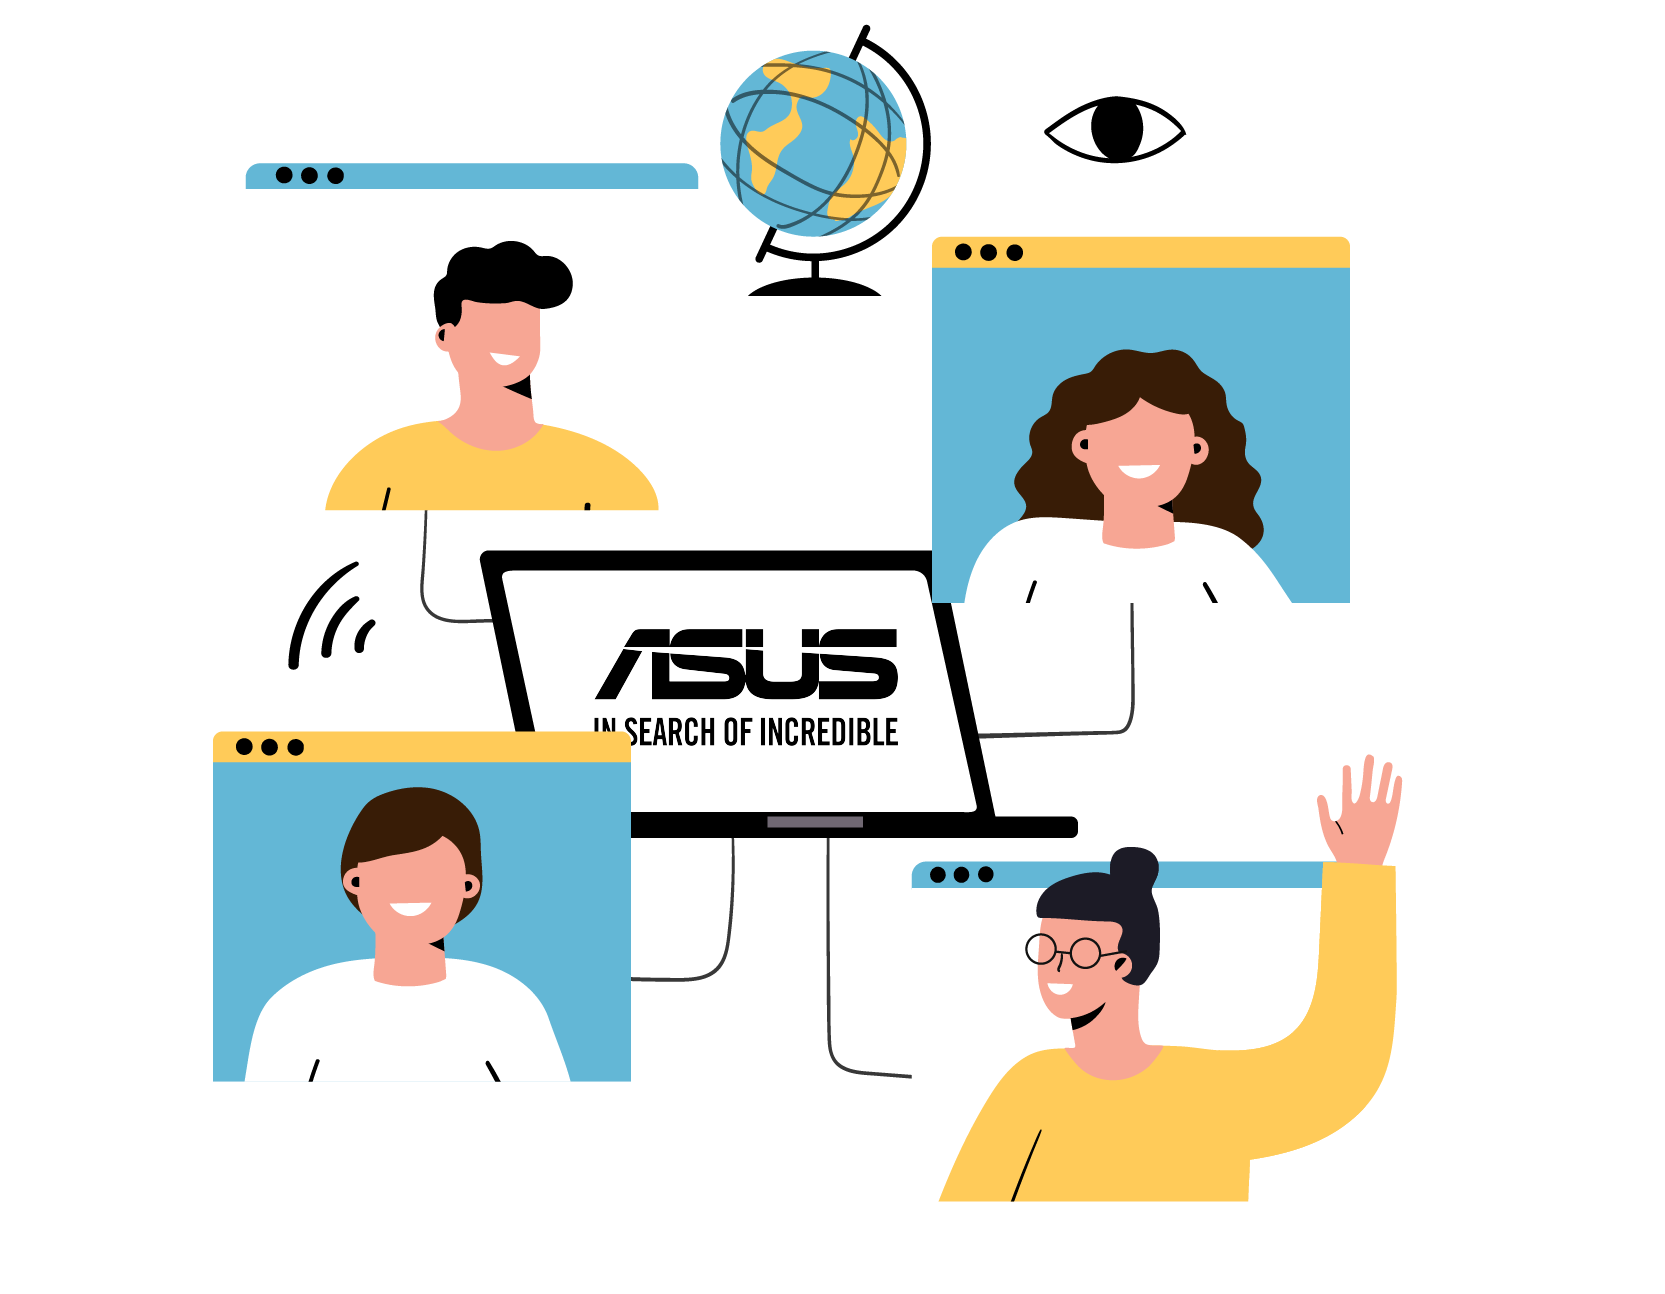
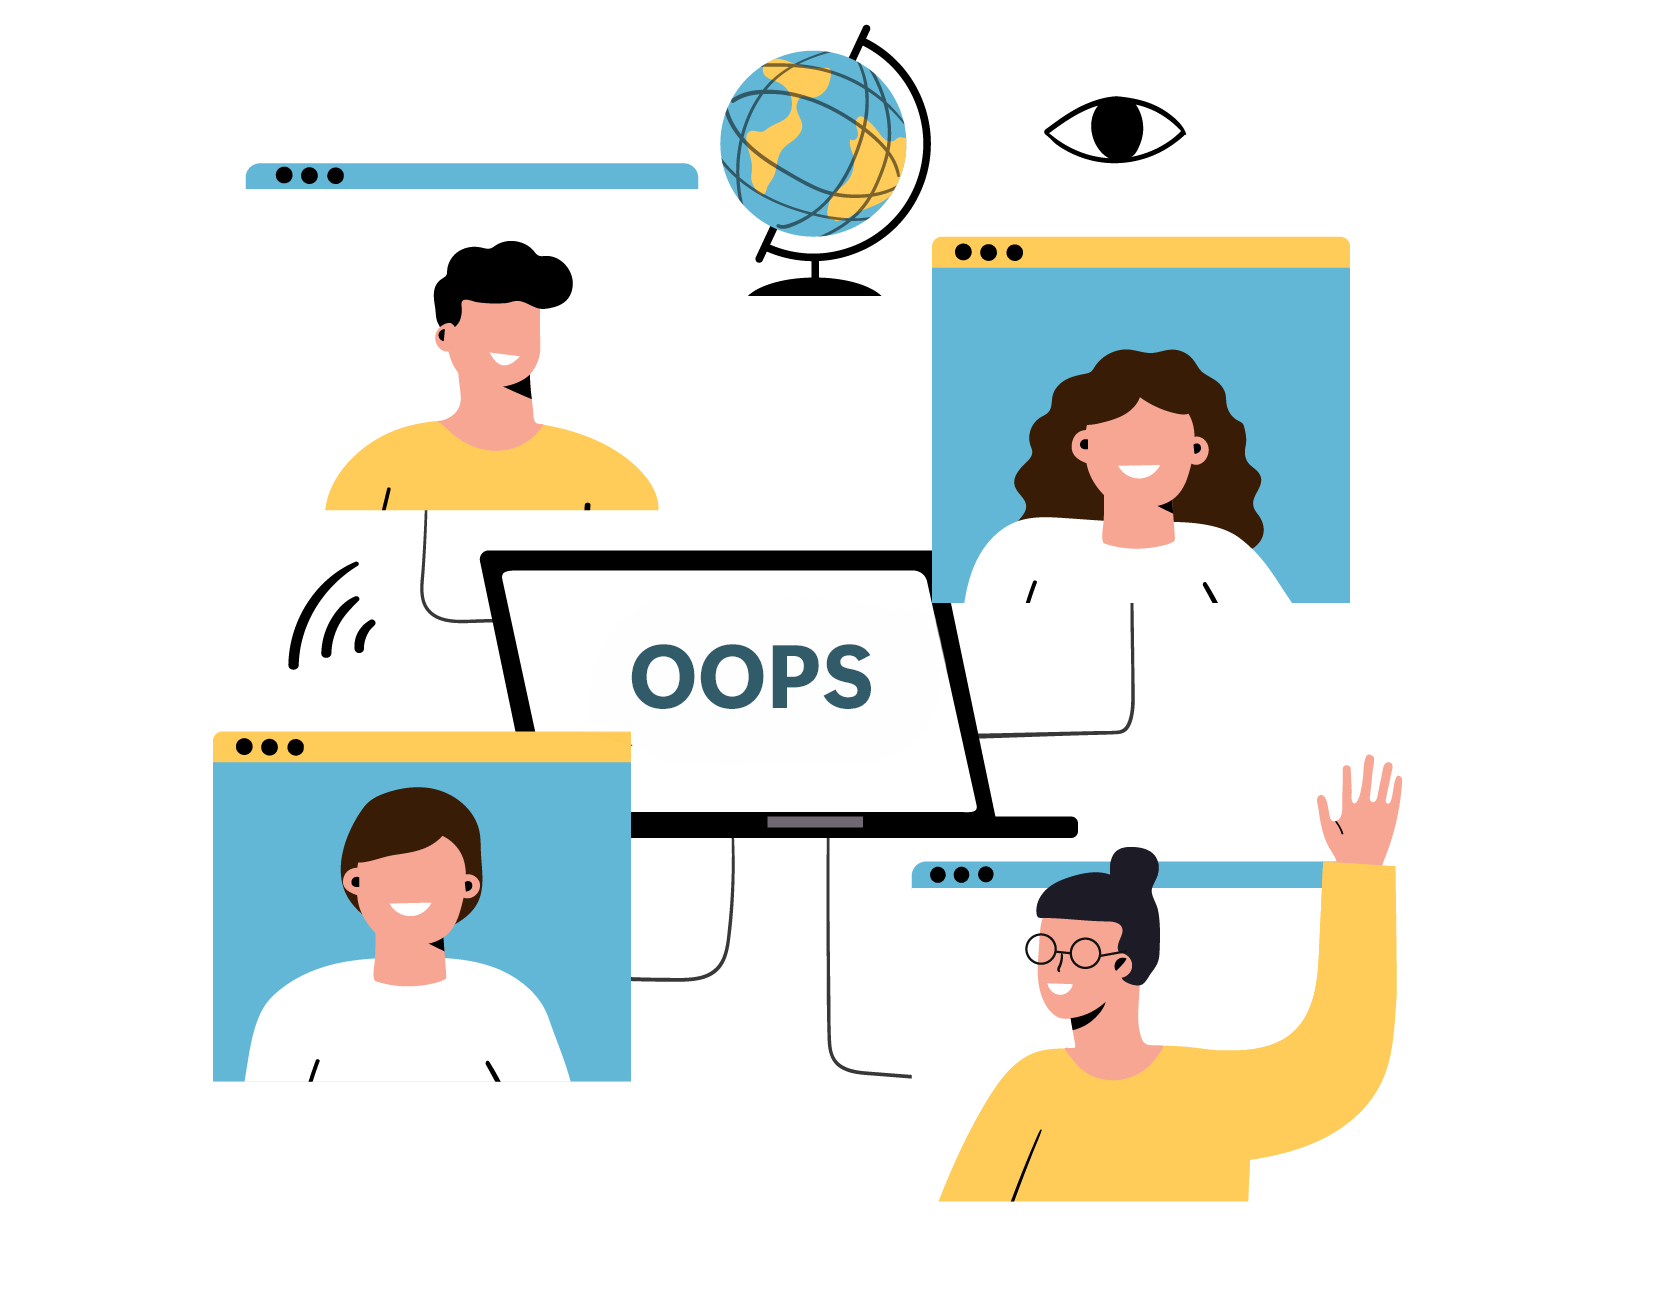
Add files via upload

Changed region(s): [[0.3435, 0.4637, 0.5622, 0.5873]]

diff --git a/Global RT Training page/Global RT Training page/Global RT Training page/404.html b/Global RT Training page/Global RT Training page/Global RT Training page/404.html
@@ -1,0 +1,73 @@
+<!DOCTYPE html>
+<html lang="en">
+<head>
+    <head>
+        <!-- 
+          Gloss Template
+          http://www.templatemo.com/preview/templatemo_433_gloss
+      -->
+      <title>404 Erro Page </title>
+      <meta name="keywords" content="" />
+      <meta name="description" content="" />
+      <meta charset="utf-8">
+      <meta name="viewport" content="initial-scale=1">
+       <link href='http://fonts.googleapis.com/css?family=Open+Sans:400italic,600italic,700italic,400,600,700,800' rel='stylesheet' type='text/css'> 
+  
+         <link rel="stylesheet" href="css/font-awesome.min.css">
+      <link rel="stylesheet" href="css/bootstrap.min.css"> 
+      
+         <!-- JavaScripts -->   
+      <script src="js/jquery-1.11.1.min.js"></script>  <!-- lightbox -->
+      <script src="js/templatemo_custom.js"></script> <!-- lightbox -->
+      <script src="js/jquery.lightbox.js"></script>
+      <script src="js/bootstrap-collapse.js"></script> 
+      <style>
+         body {
+            display: flex;
+            justify-content: center;
+            align-items: center;
+            height: 100vh;
+            margin: 0;
+            background-color: #62A6F9;
+            background-size: cover;
+            font-family: Arial, sans-serif;
+            text-align: center;
+            color: #fff; /* 文字顏色設置為白色，與背景圖片對比更好 */
+        }
+        .back_button{
+             width: 90px;
+             height: 40px;
+             text-align: center;
+             cursor: pointer;
+             line-height: 40px;
+             color: #000;
+             background-color: transparent;
+             border: 1px solid #000;
+             transition: all .3s linear;
+             margin-bottom: 2em;
+         }
+      .back_button:hover{
+             background-color: #000;
+             color: #fff;
+}
+
+      </style>
+  </head>
+  
+<body>
+<!-- 首頁開始 -->
+<div class="menu">
+    <div class="container d-flex align-items-center justify-content-center">
+     <div class="row">
+      <div class="col-lg-4 col-sm-12">
+       <input type ="button" class="back_button" onclick="history.back()" value="回到上一頁"></input>
+       <H1 style="font-size: 100px;color: white; font-weight: 600; margin:50px 0px;">404 Erro Page</H1>
+      </div>
+      <div class="col-lg-8 col-sm-12">
+        <img src="images/online.png" alt="404" style="width: 100%; height: auto; max-width: 11200px; ">
+       </div>
+    </div>
+    </div>
+</div>
+</body>
+</html>

diff --git a/Global RT Training page/Global RT Training page/Global RT Training page/RTCOC.html b/Global RT Training page/Global RT Training page/Global RT Training page/RTCOC.html
@@ -47,7 +47,7 @@
               <div class="collapse navbar-collapse main_menu" id="bs-example-navbar-collapse-1">
                 <ul class="nav navbar-nav">
                   <li><a class="show-1 templatemo_page3" href="#"><span class="fa fa-users"></span>課程報名</a></li>
-                  <li><a href="https://asuschool.asus.com/cltcms/learning-resource-play-doc.do?op_type=play&lrId=17550" target="_blank"><span class="fa fa-picture-o"></span>公告</a></li>
+                  <li><a href="404.html"><span class="fa fa-picture-o"></span>公告</a></li>
                   <!--<li><a class="show-1 templatemo_page3" href="#"><span class="fa fa-users"></span>ABOUT</a></li>-->
                   <li><a class="show-1 templatemo_page4" href="#"><span class="fa fa-envelope"></span>英文版</a></li>
                 </ul>

diff --git a/Global RT Training page/Global RT Training page/Global RT Training page/RTISC.html b/Global RT Training page/Global RT Training page/Global RT Training page/RTISC.html
@@ -47,7 +47,7 @@
               <div class="collapse navbar-collapse main_menu" id="bs-example-navbar-collapse-1">
                 <ul class="nav navbar-nav">
                   <li><a class="show-1 templatemo_page3" href="#"><span class="fa fa-users"></span>課程報名</a></li>
-                  <li><a href="https://asuschool.asus.com/cltcms/learning-resource-play-doc.do?op_type=play&lrId=17550" target="_blank"><span class="fa fa-picture-o"></span>公告</a></li>
+                  <li><a href="404.html"><span class="fa fa-picture-o"></span>公告</a></li>
                   <!--<li><a class="show-1 templatemo_page3" href="#"><span class="fa fa-users"></span>ABOUT</a></li>-->
                   <li><a class="show-1 templatemo_page4" href="#"><span class="fa fa-envelope"></span>英文版</a></li>
                 </ul>

diff --git a/Global RT Training page/Global RT Training page/Global RT Training page/index.html b/Global RT Training page/Global RT Training page/Global RT Training page/index.html
@@ -47,7 +47,7 @@
               <div class="collapse navbar-collapse main_menu" id="bs-example-navbar-collapse-1">
                 <ul class="nav navbar-nav">
                   <li><a class="show-1 templatemo_home" href="#"><span class="fa fa-home"></span>首頁</a></li>
-                  <li><a href="https://asuschool.asus.com/cltcms/learning-resource-play-doc.do?op_type=play&lrId=17550" target="_blank"><span class="fa fa-picture-o"></span>公告</a></li>
+                  <li><a href="404.html"><span class="fa fa-picture-o"></span>公告</a></li>
                   <!--<li><a class="show-1 templatemo_page3" href=""><span class="fa fa-users"></span>ABOUT</a></li>-->
                   <li><a href="index - En.html"><span class="fa fa-envelope"></span>English</a></li>
                 </ul>
